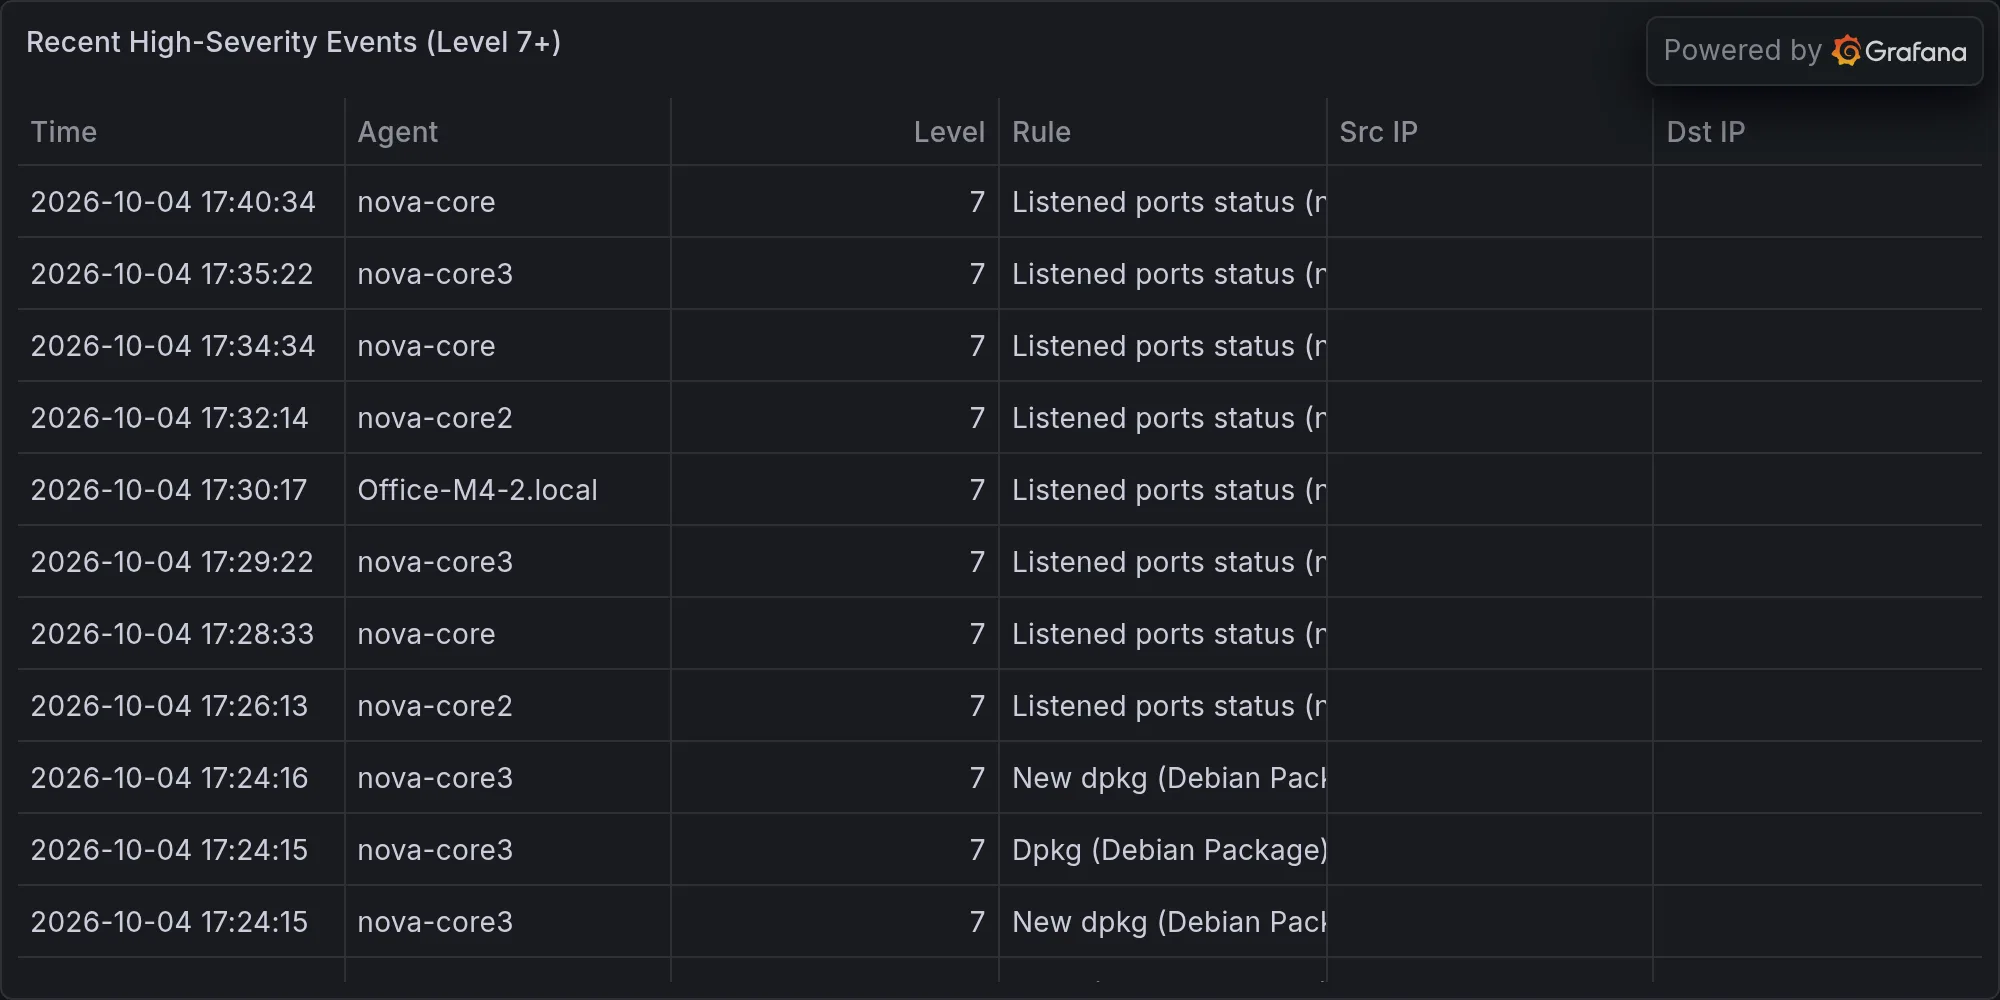
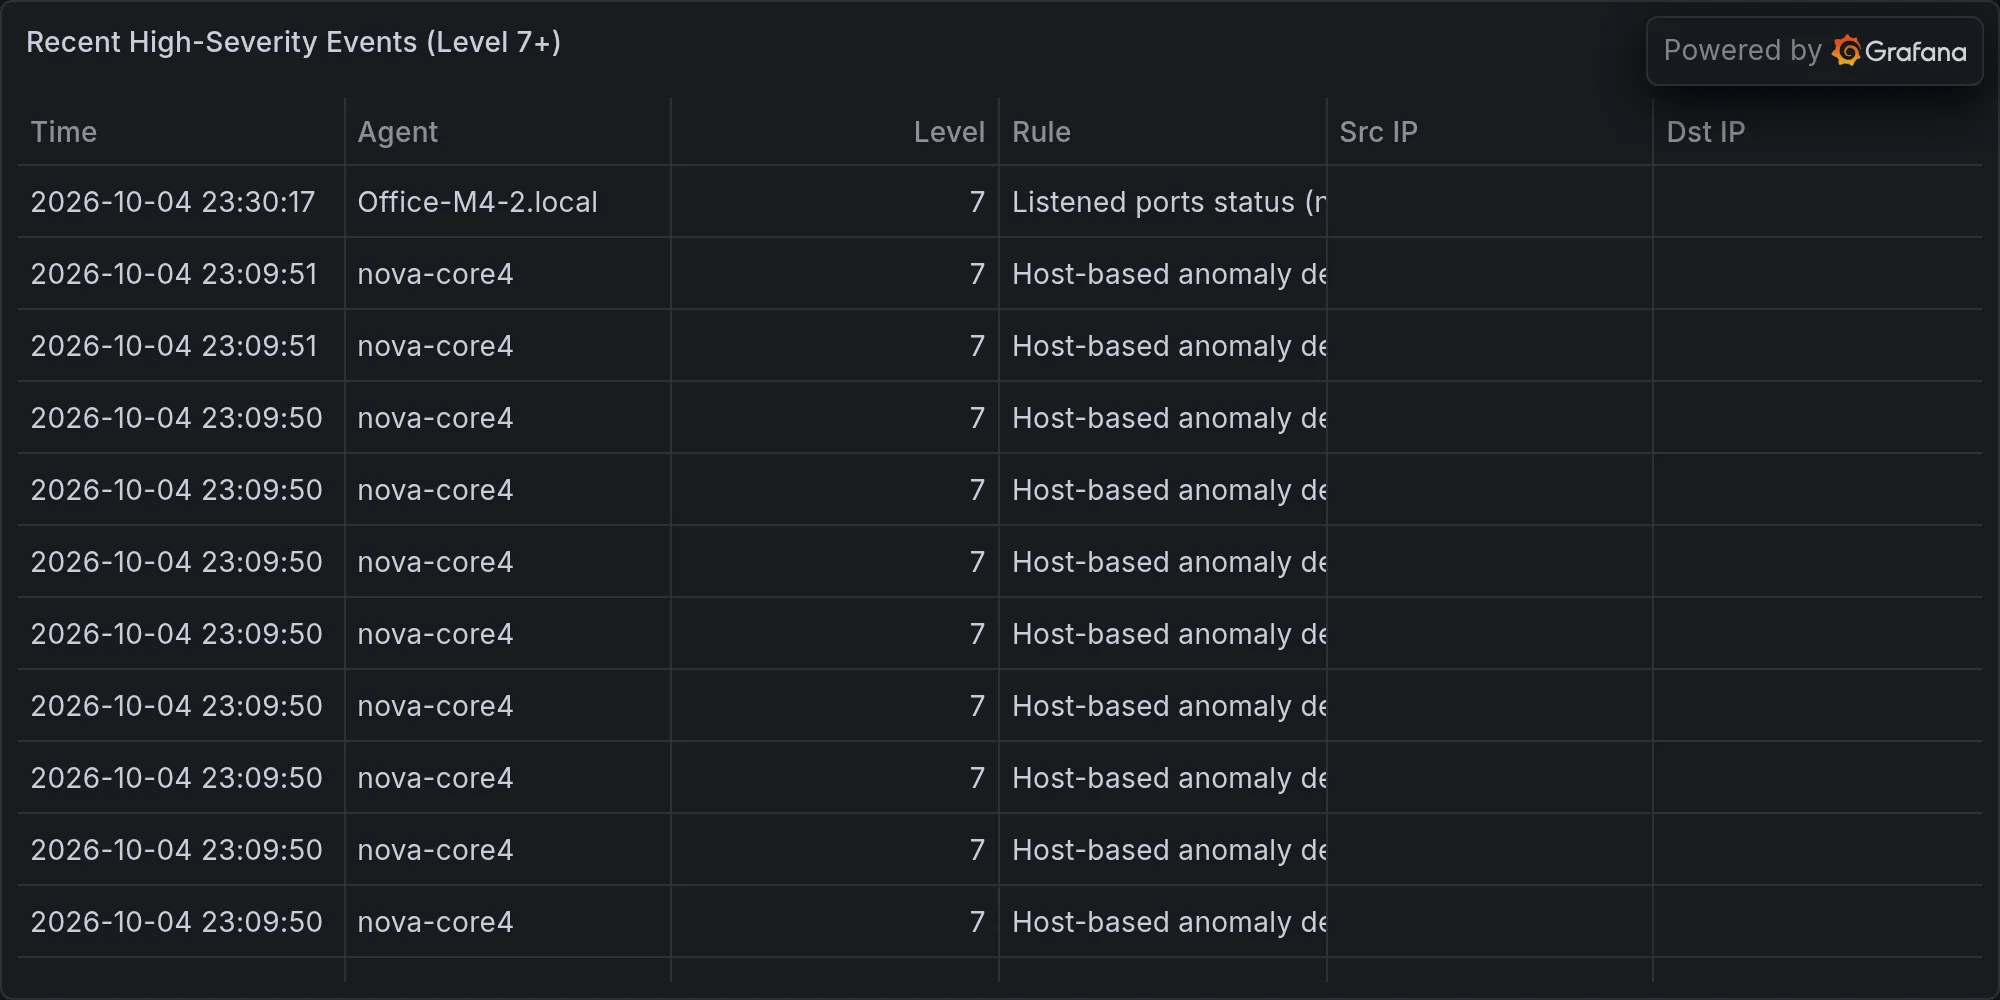
security: 2026-10-04 — **Inbound Attack Blocked on Perimeter Router — Sou

diff --git a/content/operations/2026-10-04-inbound-attack-blocked-on-perimeter-router-source-unknown-mo.md b/content/operations/2026-10-04-inbound-attack-blocked-on-perimeter-router-source-unknown-mo.md
@@ -1,0 +1,49 @@
+---
+title: "🛡 **Inbound Attack Blocked on Perimeter Router — Source Unknown, Motive Unclear**"
+date: 2026-10-04T23:48:35-07:00
+draft: false
+categories: ["operations"]
+tags: ["breaking-alert", "ips-attack-response-oct-04-23-46-52-rack", "security"]
+description: "BREAKING: IPS: attack_response: Oct 04 23:46:52 Rack14-UDMPro CEF:0|Ubiquiti|UniFi Network|10.6"
+cover:
+  image: "/images/operations/2026-10-04-inbound-attack-blocked-on-perimeter-router-source-unknown-mo.webp"
+  alt: "**Inbound Attack Blocked on Perimeter Router — Source Unknown, Motive Unclear**"
+  relative: false
+---
+
+*Published Sunday, October 04, 2026 at 11:48 PM PT*
+
+![**Inbound Attack Blocked on Perimeter Router — Source Unknown, Motive Unclear**](/images/operations/2026-10-04-inbound-attack-blocked-on-perimeter-router-source-unknown-mo.webp)
+
+**BLUF:** UniFi Network IPS on perimeter router 192.168.1.1 blocked an inbound attack 2026-10-04 23:46:52 UTC. Attack source is unidentified and payload intent unknown. No compromise detected. Investigate source origin immediately; correlate against recent F5 BIG-IP and Ubiquiti zero-day exploit signatures if IPS logs are available.
+
+**DETAILS:**
+- IPS event triggered on UDMPro (Ubiquiti UniFi Network 10.6), inbound direction, action=blocked.
+- Attack source IP unidentified in alert; origin unclear (direct, spoofed, or proxy-routed).
+- Payload classification not disclosed in alert; threat type confirmed only as "ips" — signature match or heuristic detection unknown.
+- Timing coincides with active exploitation reports: F5 BIG-IP APM zero-day (CVE-2026-94127 — unauthenticated RCE) and three critical Ubiquiti vulnerabilities recently disclosed with urgent patches issued.
+- Perimeter IPS rule version and signature database date not provided; cannot confirm whether detection is reactive or proactive.
+
+**IMPACT:**
+- **Scope:** Perimeter router only; blocked action prevented payload delivery to internal network.
+- **Affected systems:** Router itself is attack surface; internal LAN protected by firewall action.
+- **Confidence in containment:** High (blocked = no delivery), but unknown payload means attack intent remains unconfirmed.
+
+**RECOMMENDED ACTIONS (Now):**
+1. Export full IPS logs from UDMPro; extract triggering signature, source IP, destination port, and packet payload if captured.
+2. Verify UDMPro firmware is current against the three Ubiquiti critical vulnerabilities mentioned in recent security advisories.
+3. Check UDMPro admin logs for unauthorized access, config changes, or firmware downgrades in 24 hours prior.
+4. Correlate IPS signature against known F5 BIG-IP CVE-2026-94127 and Ubiquiti zero-day IoC lists if available; check threat feeds.
+5. If source IP recovered, request geolocation and ASN; escalate to ISP for reverse DNS and upstream analysis.
+6. Monitor for follow-up probes same source/ASN within 72 hours.
+
+**SOURCES:**
+- IPS event: Ubiquiti UniFi Network UDMPro, 2026-10-04 23:46:52 UTC.
+- Context: Active exploitation of F5 BIG-IP APM CVE-2026-94127 and three critical Ubiquiti vulnerabilities reported by security vendors.
+- **Unconfirmed:** Attack payload type, origin, intent; whether related to disclosed zero-days or unrelated reconnaissance.
+
+---
+
+**Recent high-severity events at publish time:**
+
+![Recent high-severity events](/images/operations/2026-10-04-breaking-alert-posture.webp)
